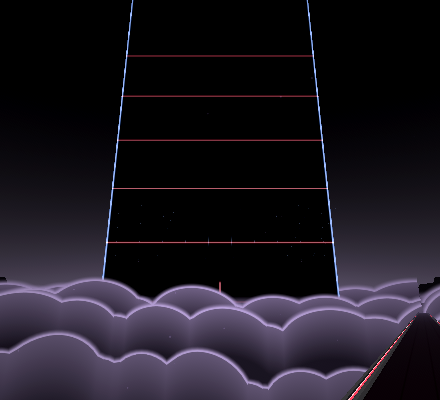
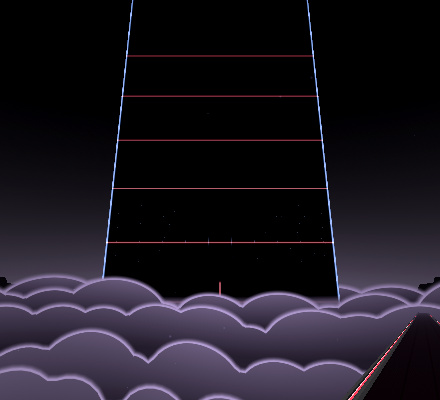
Monolith: clouds closer to the player, no seams in the clouds
The owner saw seams in the clouds ahead and wanted the clouds to reach closer.
- Three more cloud rings at 80, 150 and 230 m (6 in all); inside 320 m the puffs
  and their soft edge stay below y -5, so notes never come out of a cloud.
- The cloud ring started straight ahead and its outline did not close there:
  a step in the puffs and a broken soft edge right in front of the player. The
  puffs and the edge's direction now wrap round the ring.
- The body darkened from each puff's own top, so a crease ran down from every
  dip between puffs. It now darkens from the line of the tallest puffs.
- monolith_cloud.gdshaderinc takes the rings as float arrays (CLOUD_RING_COUNT).
Checked: desktop captures ahead, down and behind; thumbnails re-rendered; all
tests and the doc check pass. Not yet seen on the headset.

Claude-Session: https://claude.ai/code/session_01XiLHAWRVVgDFZqR7J7F4a3

Changed region(s): [[0.0, 0.66, 1.0, 1.0]]

diff --git a/game/env/AGENTS.md b/game/env/AGENTS.md
@@ -115,7 +115,8 @@ Monolith (one colossal slab down a terraced valley, seen from a tall pillar, abs
   the same way; the player's pillar down to it; the valley's sides step up in terraces (`_valley_mesh`: a column of
   vertices on each step edge so steps stay sharp, ending `VALLEY_RADIUS` out, inside the far plane; valley and pillar
   share `floor_material`); upright cloud rings (`CLOUD_RINGS`, `_cloud_ring`: a band up from the valley floor whose top
-  is a row of round puffs, built in the mesh) among the terraces. Every terrace above y -5 starts
+  is a row of round puffs, built in the mesh and closed round the ring with no step) among the terraces, the nearest 80 m
+  out (owner, 2026-10-31: clouds closer). Every terrace above y -5 starts
   beyond r 320 m, bends included; keep it so when changing the valley's numbers. `ledge_spot(share)` and
   `up_face(lean)` place the lasers (`LightRig` "monolith": diagonal beams up the face from its ledge `LEDGE_HEIGHT`
   up, above the clouds (owner, 2026-10-31), waving lasers
@@ -128,11 +129,12 @@ Monolith (one colossal slab down a terraced valley, seen from a tall pillar, abs
 - `MonolithFloor.gdshader`: the valley and pillar: dark ground with a neutral `BASE`, the horizon's glow on the far
   ground toward the slab, steep faces darker than treads (slope from screen derivatives, no normals), the slab's shadow
   falling toward the player as a widening wedge. `MonolithCloud.gdshader`: the cloud rings, opaque (outline in the
-  mesh: no discard, no blending), light under the top darkening downward, a thin rim on the puffs, farther rings paler.
+  mesh: no discard, no blending), light at the tallest puffs' line darkening downward (from that
+  smooth line, not each puff's top, so no crease runs down from the dips between puffs), a thin rim on the puffs, farther rings paler.
   `MonolithCloudEdge.gdshader`: the clouds' soft edge (owner, 2026-10-31), a see-through fringe `CLOUD_BLUR` (an
   angle) out from the outline, the stage's only blending. `monolith_cloud.gdshaderinc`: the clouds' tones and
   `under_cloud`, used by the clouds, the valley, the pillar and the slab: below the clouds' level (`CLOUD_RINGS`' puffs'
-  middle, set by `_sink_into_clouds`, exactly 4 rings) a surface takes the cloud's tone, so nothing pokes hard through
+  middle, set by `_sink_into_clouds`, `CLOUD_RING_COUNT` rings, 6) a surface takes the cloud's tone, so nothing pokes hard through
   a cloud or shows beneath one (owner, 2026-10-31). `MonolithSky.gdshader`:
   black with a neutral horizon glow behind the slab (`SLAB_DIR` must match `MonolithRig.SLAB_YAW`; no `bg_<type>`) and
   a fainter neutral one all round so the ridges stand as silhouettes.

diff --git a/doc/world/SPATIAL_LAYOUT.md b/doc/world/SPATIAL_LAYOUT.md
@@ -101,8 +101,9 @@ Plain boxes in `HengeRig.gd`, every size a named constant there; for 90 and 360 
   terraces up both sides, 15 m higher every 30 m out (4 m steep faces), to ridges about +295 m at 980 m. The first
   terrace above y -5 starts beyond 325 m. The slab stands on the valley floor (top about 950 m away); its shadow falls
   down the valley toward the player.
-- Clouds (owner's reference, 2026-10-31: stylized flats): 4 upright rings at 220, 360, 470 and 760 m (none crossing the slab), each a band up
-  from the valley floor topped by a row of round puffs; the 220 m ring's puffs top out near y -11; beyond 320 m they
+- Clouds (owner's reference, 2026-10-31: stylized flats): 6 upright rings at 80, 150, 230, 340, 470 and 760 m (none crossing the slab; the
+  nearest three added 2026-10-31 so the clouds reach close to the player), each a band up from the valley floor topped
+  by a row of round puffs; inside 320 m the puffs top out below y -5 (the 230 m ring near y -9, its soft edge -6); beyond 320 m they
   rise to about +60 m at 760 m, hiding the slab's foot. Edges soft (a fringe 0.012 rad wide, owner 2026-10-31);
   terrain, pillar and slab below the clouds' level take the cloud's tone, so nothing pokes through a cloud.
 - Lights: drawn on the slab's face (edges 3 m, seams 1.5 m every 90 m, slit 2 m); beam fixtures along a
